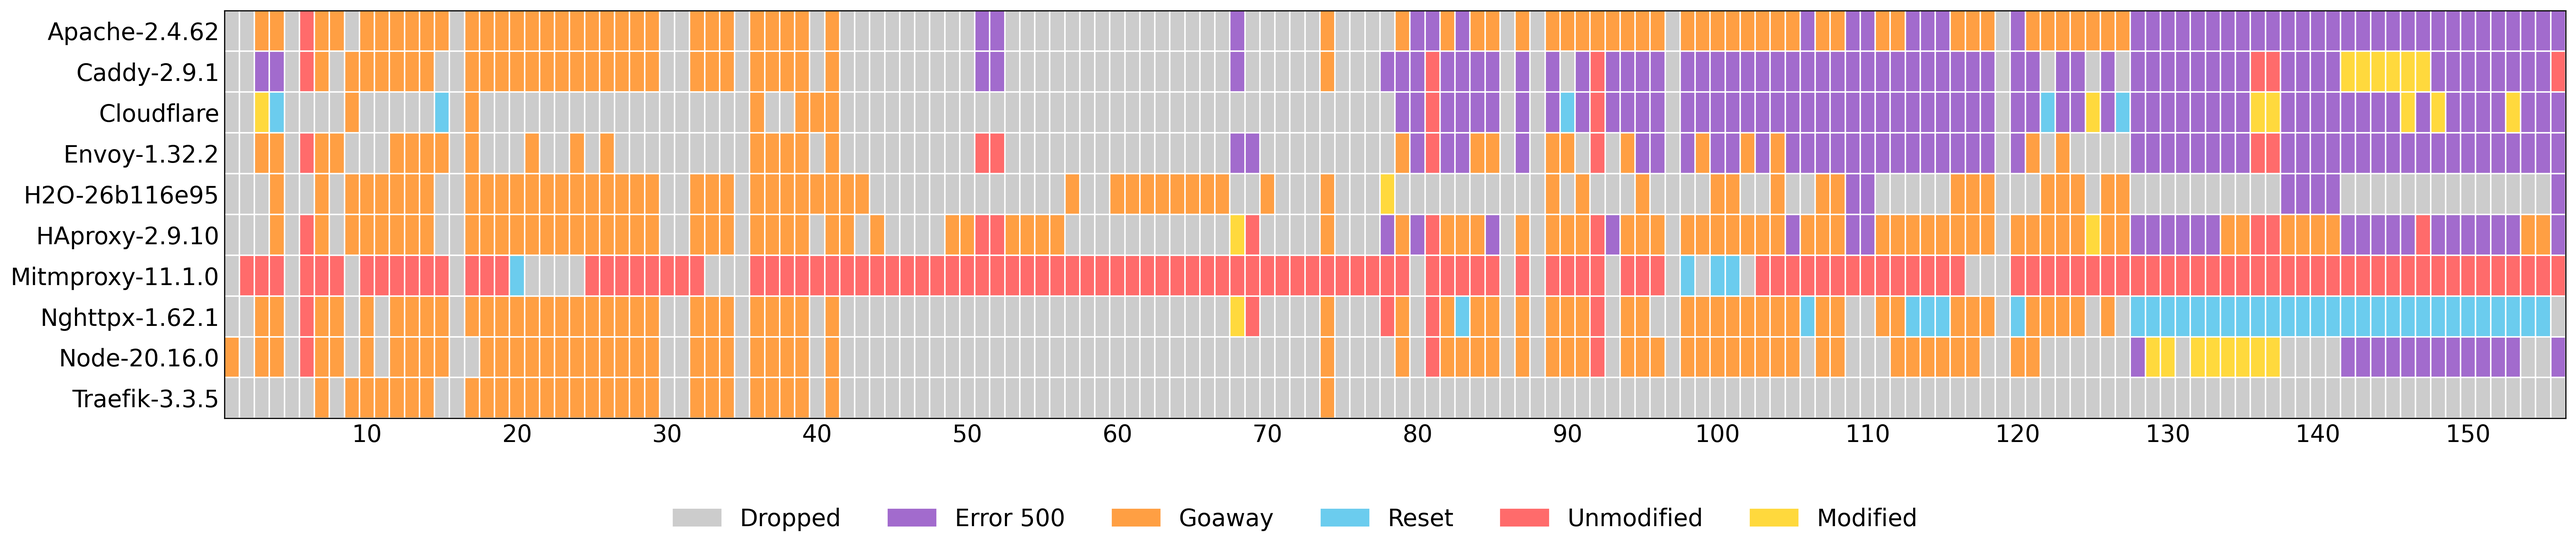
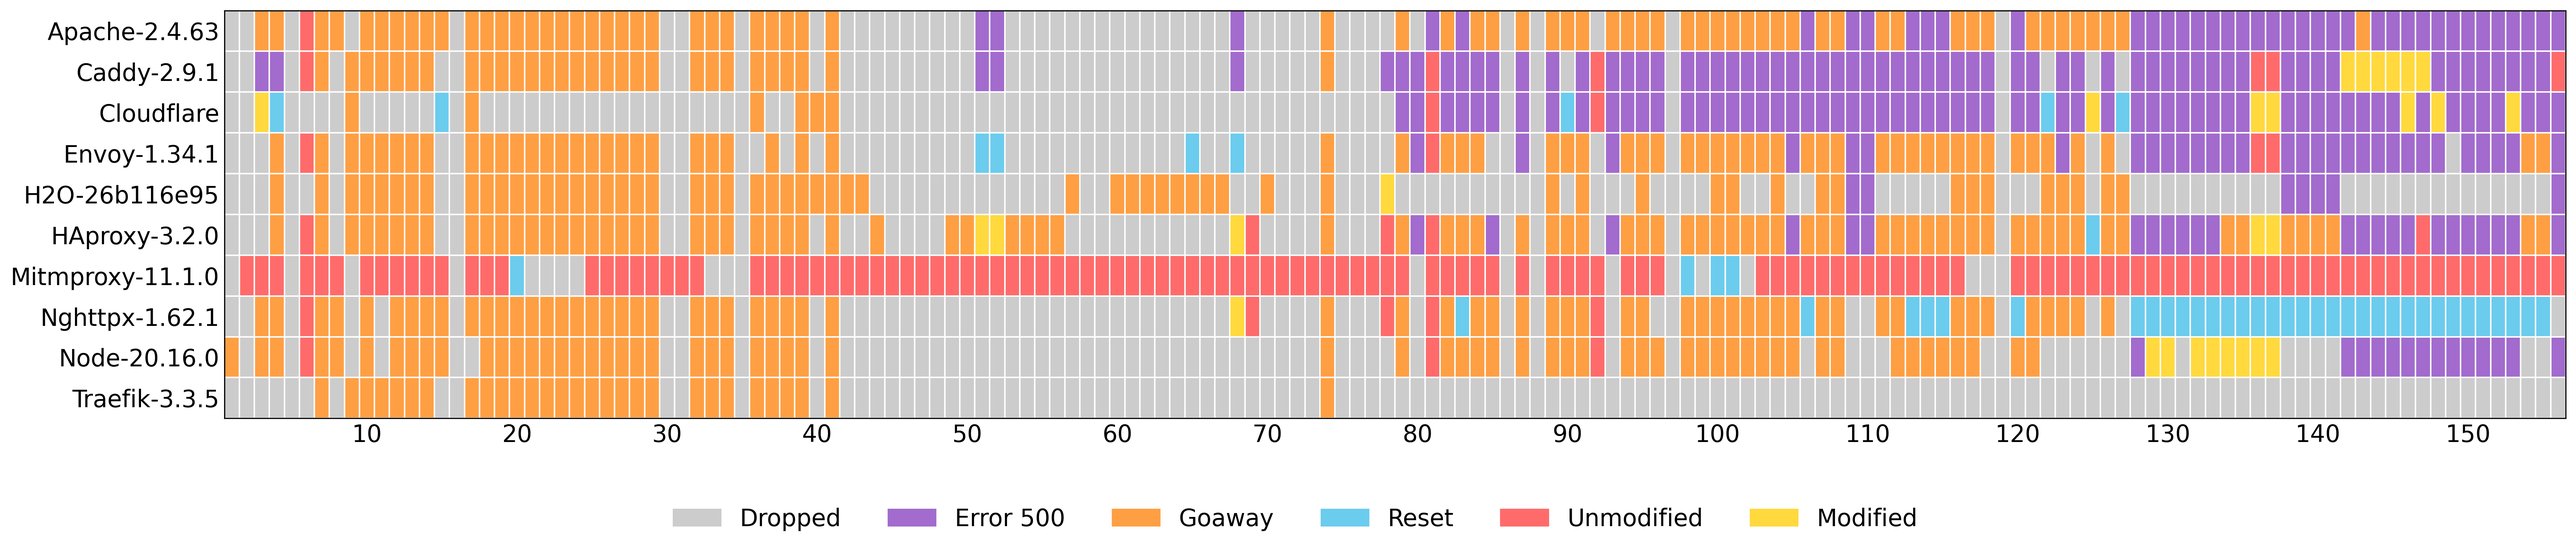
update analysis

diff --git a/analysis/tables/result_counts.md b/analysis/tables/result_counts.md
@@ -1,0 +1,73 @@
+# HTTP/2 Conformance Test Results
+
+## Overview
+This document presents the results of HTTP/2 conformance testing across various proxy servers. The tests evaluate how each proxy handles different HTTP/2 protocol scenarios.
+
+## Test Categories
+- **Error Handling Tests**: How proxies handle protocol errors (500 Error, GOAWAY, RESET)
+- **Connection Tests**: Tests for connection handling (Dropped connections)
+- **Response Tests**: Tests for response handling (Received, Modified, Unmodified)
+
+## Result Types Explained
+| Result Type | Description |
+|:------------|:------------|
+| Dropped     | Connection timed out or was dropped |
+| 500 Error   | Server returned HTTP 500 error |
+| GOAWAY      | Server sent HTTP/2 GOAWAY frame |
+| RESET       | Server sent HTTP/2 RST_STREAM frame |
+| Received    | Response received successfully |
+| Modified    | Response was modified by proxy |
+| Unmodified  | Response passed through unmodified |
+
+
+## Full Test Suite
+
+### Error Handling & Connection Statistics
+| Proxy | Connection Issues | Error Responses | Protocol Errors | Response Stats |
+|:------|:------------------|:----------------|:----------------|:--------------|
+| Apache-2.4.63 | Dropped: 48 | 500 Error: 40 | GOAWAY: 67, RESET: 0 | Modified: 0, Unmodified: 1 |
+| Caddy-2.9.1 | Dropped: 50 | 500 Error: 65 | GOAWAY: 29, RESET: 0 | Modified: 6, Unmodified: 6 |
+| Cloudflare | Dropped: 73 | 500 Error: 63 | GOAWAY: 6, RESET: 5 | Modified: 7, Unmodified: 2 |
+| Envoy-1.34.1 | Dropped: 52 | 500 Error: 31 | GOAWAY: 63, RESET: 4 | Modified: 0, Unmodified: 4 |
+| H2O-26b116e95 | Dropped: 89 | 500 Error: 7 | GOAWAY: 59, RESET: 0 | Modified: 1, Unmodified: 0 |
+| HAproxy-3.2.0 | Dropped: 40 | 500 Error: 24 | GOAWAY: 81, RESET: 1 | Modified: 5, Unmodified: 5 |
+| Mitmproxy-11.1.0 | Dropped: 21 | 500 Error: 0 | GOAWAY: 0, RESET: 4 | Modified: 0, Unmodified: 131 |
+| Nghttpx-1.62.1 | Dropped: 55 | 500 Error: 0 | GOAWAY: 61, RESET: 34 | Modified: 1, Unmodified: 5 |
+| Node-20.16.0 | Dropped: 70 | 500 Error: 14 | GOAWAY: 61, RESET: 0 | Modified: 8, Unmodified: 3 |
+| Traefik-3.3.5 | Dropped: 127 | 500 Error: 0 | GOAWAY: 29, RESET: 0 | Modified: 0, Unmodified: 0 |
+
+### Detailed Test Results
+| Proxy | Test Details |
+|:------|:-------------|
+| Apache-2.4.63 | **Unmodified Tests**: 6 |
+| Caddy-2.9.1 | **Modified Tests**: 142-147<br>**Unmodified Tests**: 6, 81, 92, 136-137, 156 |
+| Cloudflare | **Modified Tests**: 3, 125, 136-137, 146, 148, 153<br>**Unmodified Tests**: 81, 92 |
+| Envoy-1.34.1 | **Unmodified Tests**: 6, 81, 136-137 |
+| H2O-26b116e95 | **Modified Tests**: 78 |
+| HAproxy-3.2.0 | **Modified Tests**: 51-52, 68, 136-137<br>**Unmodified Tests**: 6, 69, 78, 81, 147 |
+| Mitmproxy-11.1.0 | **Unmodified Tests**: 2-4, 6-8, 10-15, 17-19, 25-32, 36-79, 81-85, 87, 89-92, 94-96, 103-116, 120-156 |
+| Nghttpx-1.62.1 | **Modified Tests**: 68<br>**Unmodified Tests**: 6, 69, 78, 81, 92 |
+| Node-20.16.0 | **Modified Tests**: 129-130, 132-137<br>**Unmodified Tests**: 6, 81, 92 |
+| Traefik-3.3.5 | No test details available |
+
+
+## Client-side Only Tests
+
+### Error Handling & Connection Statistics
+| Proxy | Connection Issues | Error Responses | Protocol Errors | Response Stats |
+|:------|:------------------|:----------------|:----------------|:--------------|
+| Azure-AG | Dropped: 76 | 500 Error: 0 | GOAWAY: 0, RESET: 0 | Received: 2 |
+| Fastly | Dropped: 26 | 500 Error: 0 | GOAWAY: 43, RESET: 9 | Received: 0 |
+| Lighttpd-1.4.76 | Dropped: 44 | 500 Error: 0 | GOAWAY: 30, RESET: 1 | Received: 3 |
+| Nginx-1.28.0 | Dropped: 49 | 500 Error: 0 | GOAWAY: 27, RESET: 0 | Received: 2 |
+| Varnish-7.7.0 | Dropped: 36 | 500 Error: 0 | GOAWAY: 31, RESET: 0 | Received: 11 |
+
+### Detailed Test Results
+| Proxy | Test Details |
+|:------|:-------------|
+| Azure-AG | **Received Tests**: 3-4 |
+| Fastly | No test details available |
+| Lighttpd-1.4.76 | **Received Tests**: 3, 8, 15 |
+| Nginx-1.28.0 | **Received Tests**: 3-4 |
+| Varnish-7.7.0 | **Received Tests**: 3, 6, 40, 57-62, 65, 69 |
+
